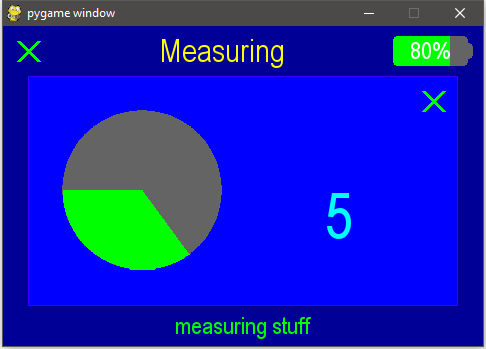
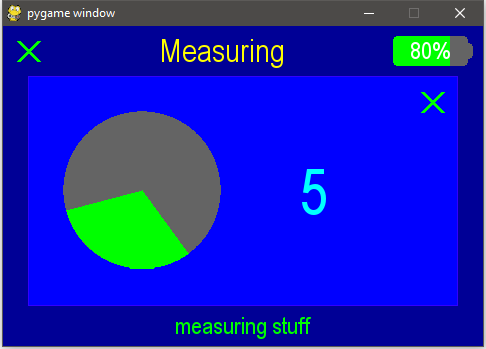
Placement code improvements

diff --git a/demo.py b/demo.py
@@ -79,16 +79,21 @@ class Demo(object):
 	def show_activity_screen(self):
 		"""Show activity screen with progress indicator"""
 		W, H, margin = self.style.screen_w, self.style.screen_h, self.style.active_margin
-		width, height = W - 2*margin, H - self.style.status_panel_h - self.style.info_panel_h
-		self.s_action = window.FrameWindow(margin, self.style.status_panel_h, width, height, Style(tag='activity'))
+		self.s_action = window.FrameWindow(
+				margin, self.style.status_panel_h,
+				W - 2 * margin, H - self.style.status_panel_h - self.style.info_panel_h,
+				Style(tag='activity')
+			)
+		w, h = self.s_action.int_size()
 		btn = button.XButton(self.style.close_btn_sz)
 		btn.clicked.connect(self.cancel_activity)
-		self.s_action.add_child(btn, width - self.style.close_btn_sz, 0)
-		progress_sz = int(height * self.style.progress_sz)
+		self.s_action.add_child(btn, w - self.style.close_btn_sz, 0)
+		progress_sz = int(h * self.style.progress_sz)
+		progress_margin = (h - progress_sz) / 2
 		self.s_progress = progress.PieProgressIndicator(progress_sz)
-		self.s_action.add_child(self.s_progress, (height - progress_sz) / 2, (height - progress_sz) / 2)
-		self.s_remaining = label.TextLabel(width - (height + progress_sz) / 2, progress_sz, Style(tag='remaining'))
-		self.s_action.add_child(self.s_remaining, (height + progress_sz) / 2, (height - progress_sz) / 2)
+		self.s_action.add_child(self.s_progress, progress_margin, progress_margin)
+		self.s_remaining = label.TextLabel(w - progress_margin - progress_sz - self.style.close_btn_sz, h, Style(tag='remaining'))
+		self.s_action.add_child(self.s_remaining, progress_margin + progress_sz, 0)
 		self.screen.show(self.s_action)
 
 	def x_show_activity_screen(self):
@@ -119,15 +124,18 @@ class Demo(object):
 	def show_result_screen(self):
 		"""Show results screen"""
 		W, H, margin = self.style.screen_w, self.style.screen_h, self.style.result_margin
-		width, height = W - 2*margin, H - self.style.status_panel_h - self.style.info_panel_h
-		s = window.FrameWindow(margin, self.style.status_panel_h, width, height, Style(tag='result'))
+		s = window.FrameWindow(
+				margin, self.style.status_panel_h,
+				W - 2 * margin, H - self.style.status_panel_h - self.style.info_panel_h,
+				Style(tag='result')
+			)
+		w, h = self.s_action.int_size()
 		btn = button.XButton(self.style.close_btn_sz)
 		btn.clicked.connect(s.discard)
-		s.add_child(btn, width - self.style.close_btn_sz, 0)
-		padding = s.style.border + 1
-		txt = label.TextLabel(width - 2*padding, height - 2*padding, Style(tag='result', f_color=None))
+		s.add_child(btn, w - self.style.close_btn_sz, 0)
+		txt = label.TextLabel(w, h, Style(tag='result', f_color=None))
 		txt.set_text('Life is good')
-		s.add_child(txt, padding, padding)
+		s.add_child(txt, 0, 0)
 		self.screen.show(s)
 
 	def x_show_result_screen(self):

diff --git a/gui.py b/gui.py
@@ -45,17 +45,29 @@ class View(object):
 		"""Returns the occupied rectangle coordinates in screen coordinate system"""
 		return self.screen_x, self.screen_y, self.w, self.h
 
+	def int_frame(self):
+		"""Returns internal area available for child elements placement"""
+		return 0, 0, self.w, self.h
+
+	def int_size(self):
+		"""Returns the size of internal area available for child elements placement"""
+		_, _, w, h = self.int_frame()
+		return w, h
+
 	def rect_to_screen(self, (x, y, w, h)):
 		"""Translates rectangle coordinates to the screen coordinate system"""
 		return self.screen_x + x, self.screen_y + y, w, h
 
 	def add_child(self, v, x, y):
-		"""Add child view"""
+		"""Add child view. Note that x, y are relative to the the internal frame."""
 		assert v.parent is None
-		v.x, v.y = x, y
+		ix, iy, iw, ih = self.int_frame()
+		v.x, v.y = ix + x, iy + y
+		assert iw is None or x + v.w <= iw
+		assert ih is None or y + v.h <= ih
 		v.parent = self
 		self.children.append(v)
-		
+
 	def apply_recursively(self, cb):
 		"""Call callback with the view as arguments and do it with all children recursively"""
 		cb(self)
@@ -364,6 +376,10 @@ class Button(View):
 		self.clicked = Signal()
 		self.pressed = Signal()
 		self.focus_changed = Signal()
+
+	def int_frame(self):
+		"""No child elements expected"""
+		return None
 
 	def on_pressed(self, pressed):
 		"""Mouse pressed handler"""

diff --git a/window.py b/window.py
@@ -2,13 +2,13 @@
 Window classes
 """
 
-import gui, style
+import gui, style, utils
 import pygame as pg
 
 class BckgWindow(gui.Window):
 	"""Window filling entire screen"""
 	def __init__(self, st = None):
-		gui.Window.__init__(self, 0, 0, 0, 0)
+		gui.Window.__init__(self, 0, 0, None, None)
 		self.style = style.bind(self, st)
 
 	def init(self, surface):
@@ -23,6 +23,15 @@ class FrameWindow(gui.Window):
 	def __init__(self, x, y, w, h, st = None):
 		gui.Window.__init__(self, x, y, w, h)
 		self.style = style.bind(self, st)
+
+	def int_frame(self):
+		"""Take into account border if present"""
+		iframe = gui.Window.int_frame(self)
+		b = self.style.border
+		if b:
+			return utils.apply_margins(iframe, b, b)
+		else:
+			return iframe
 
 	def draw(self):
 		frame = self.frame()

diff --git a/README.md b/README.md
@@ -25,6 +25,8 @@ GUI elements such as buttons, labels, progress and battery charge indicators.
 The styles framework serves as a convenient way of setting various parameters in CSS-like manner. It separates
 parameters storage from the code that using them which leads to cleaner code and simplify visual appearance tuning.
 
+The textual elements rely on the global text translation table for the sake of GUI localization.
+
 The demo application is provided as working example of building simple GUI in multi-threaded application.
 
 
